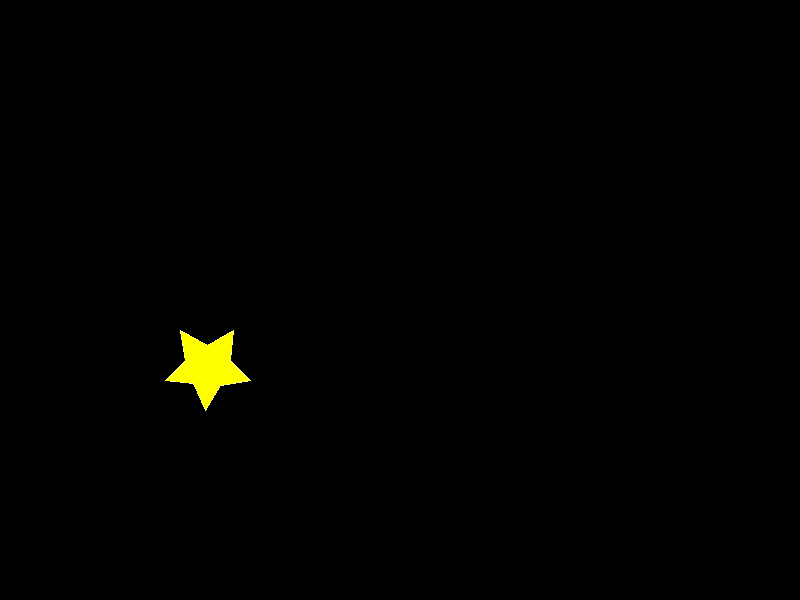
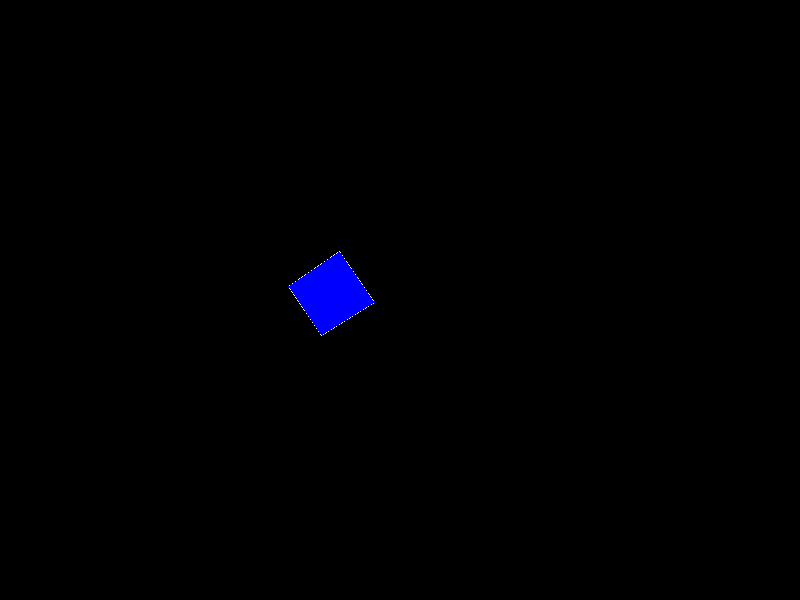
Poligono 2

Changed region(s): [[0.3438, 0.42, 0.4688, 0.57], [0.2188, 0.54, 0.3125, 0.69]]

diff --git a/src/main.rs b/src/main.rs
@@ -10,17 +10,15 @@ fn main() {
         .build();
 
     let mut framebuffer = FrameBuffer::new(width, height);
-    
-    let poly1 = vec![
-        Vector2 { x: 165.0, y: 380.0 }, Vector2 { x: 185.0, y: 360.0 },
-        Vector2 { x: 180.0, y: 330.0 }, Vector2 { x: 207.0, y: 345.0 },
-        Vector2 { x: 233.0, y: 330.0 }, Vector2 { x: 230.0, y: 360.0 },
-        Vector2 { x: 250.0, y: 380.0 }, Vector2 { x: 220.0, y: 385.0 },
-        Vector2 { x: 205.0, y: 410.0 }, Vector2 { x: 193.0, y: 383.0 },
+
+    // Polígono 2
+    let poly2 = vec![
+        Vector2 { x: 321.0, y: 335.0 }, Vector2 { x: 288.0, y: 286.0 },
+        Vector2 { x: 339.0, y: 251.0 }, Vector2 { x: 374.0, y: 302.0 },
     ];
 
-    draw_polygon_edges(&mut framebuffer, &poly1, Color::WHITE);
-    fill_polygon(&mut framebuffer, &poly1, Color::YELLOW);
+    draw_polygon_edges(&mut framebuffer, &poly2, Color::WHITE);
+    fill_polygon(&mut framebuffer, &poly2, Color::BLUE);
 
     save_framebuffer_as_png(&framebuffer, "out.png");
 
@@ -37,6 +35,8 @@ fn main() {
         }
     }
 }
+
+// Resto del código igual que antes...
 
 fn save_framebuffer_as_png(framebuffer: &FrameBuffer, filename: &str) {
     let width = framebuffer.width() as u32;
